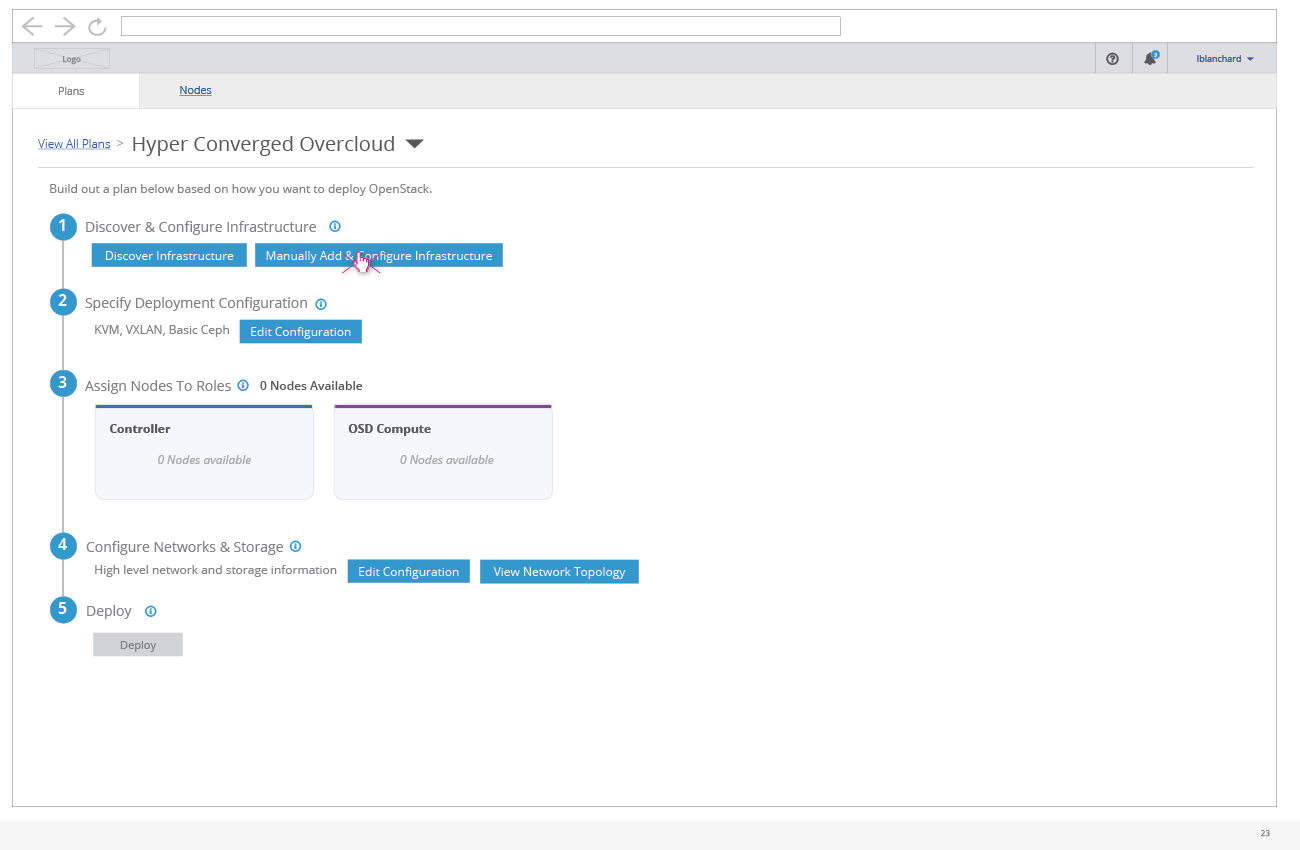
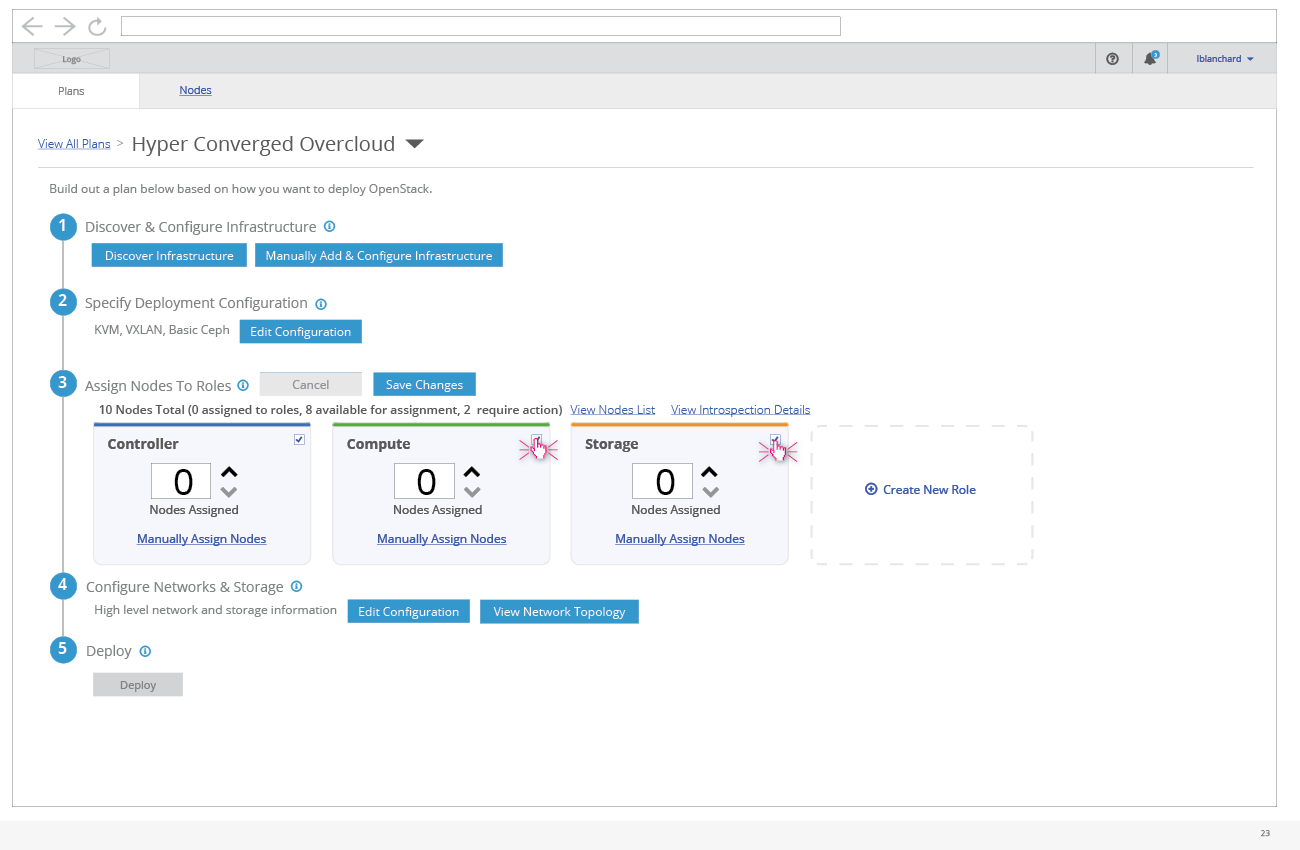
Adding updates to Roles management

diff --git a/tripleo-ui/2-preparation-before-edge-technician-deploys/README.md b/tripleo-ui/2-preparation-before-edge-technician-deploys/README.md
@@ -55,68 +55,73 @@ The preparation expert could use the UI to do all of these steps after prepping 
 ![createnewplan](img/2017-7-24-TripleO-UI_13_PrepWork17.png)
 - On creation of a Plan, the user can choose high level configuration options.  
 
-![editroles](img/2017-7-24-TripleO-UI_13_PrepWork18.png)
-- Part of the overall configuration includes role selection and creation.
-- Since this deployment will be an HCI deployment, the user is going to remove the default Compute and Storage roles and go ahead and create custom role for HCI.
+![createplan](img/2017-7-24-TripleO-UI_13_PrepWork18.png)
+- Once the user has finalized the high level plan details, they can confirm the creation of the plan.
 
-![createnewrole1](img/2017-7-24-TripleO-UI_13_PrepWork19.png)
-- Creating a new role will pull up another window that allows the user to define that role.
+![plancardsview2](img/2017-7-24-TripleO-UI_13_PrepWork19.png)
+- After creating the plan, the user will see it listed in the card view. Clicking on the card will drill into the detailed workflow of that plan.
 
-![createnewrole2](img/2017-7-24-TripleO-UI_13_PrepWork20.png)
+![registernodes](img/2017-7-24-TripleO-UI_13_PrepWork20.png)
+- As a first step to testing out this configuration, the user can begin the process of doing a test deployment by registering nodes.
+
+![registernodesmodal](img/2017-7-24-TripleO-UI_13_PrepWork21.png)
+
+![manageroles](img/2017-7-24-TripleO-UI_13_PrepWork22.png)
+- Since this deployment will be an HCI deployment, the user is going to want to edit the roles that are used.
+
+![manageroles2](img/2017-7-24-TripleO-UI_13_PrepWork23.png)
+- At this point the user can deselect the Compute and Storage roles so that they are not used.
+
+![manageroles3](img/2017-7-24-TripleO-UI_13_PrepWork24.png)
+- Next, the user selects to crate a new role so they can specify one for OSD Compute which will be used in the HCI deployment.
+
+![createnewrole1](img/2017-7-24-TripleO-UI_13_PrepWork25.png)
 - Roles can be given a name, description, and need to be assigned to a flavor.
 - Services can be selected that will be used in this role.
 - Based on the services selected, the parameters below will be built out.
 
-![createplan](img/2017-7-24-TripleO-UI_13_PrepWork21.png)
-- Once the user has finalized the high level plan details, they can confirm the creation of the plan.
+![createnewrole2](img/2017-7-24-TripleO-UI_13_PrepWork26.png)
+- After any changes needed have been made to the Roles, the user can Save the changes.
 
-![plancardsview2](img/2017-7-24-TripleO-UI_13_PrepWork22.png)
-- After creating the plan, the user will see it listed in the card view. Clicking on the card will drill into the detailed workflow of that plan.
-
-![registernodes](img/2017-7-24-TripleO-UI_13_PrepWork23.png)
-- As a first step to testing out this configuration, the user can begin the process of doing a test deployment by registering nodes.
-
-![registernodesmodal](img/2017-7-24-TripleO-UI_13_PrepWork24.png)
-
-![assignnodestoroles](img/2017-7-24-TripleO-UI_13_PrepWork25.png)
+![assignnodestoroles](img/2017-7-24-TripleO-UI_13_PrepWork27.png)
 - At this point, the user would need to assign the registered nodes to the roles that they want them to play in the deployment.
 
-![plandetails](img/2017-7-24-TripleO-UI_13_PrepWork26.png)
-- At this point, the user could choose to edit the Network and Storage configuration for this plan.
+![plandetails](img/2017-7-24-TripleO-UI_13_PrepWork28.png)
+- If needed, the user could choose to edit the Network and Storage configuration for this plan.
 
-![editconfiguration1](img/2017-7-24-TripleO-UI_13_PrepWork27.png)
+![editconfiguration1](img/2017-7-24-TripleO-UI_13_PrepWork29.png)
 - The first step of this wizard would be the overall network configuration.
 
-![editconfiguration2](img/2017-7-24-TripleO-UI_13_PrepWork28.png)
+![editconfiguration2](img/2017-7-24-TripleO-UI_13_PrepWork30.png)
 - The second step includes assigning roles to subnets.
 
-![editconfiguration3](img/2017-7-24-TripleO-UI_13_PrepWork29.png)
+![editconfiguration3](img/2017-7-24-TripleO-UI_13_PrepWork31.png)
 - The third network configuration step covers any changes that the user might want to make to the subnet configuration.
 
-![editconfiguration3](img/2017-7-24-TripleO-UI_13_PrepWork30.png)
+![editconfiguration3](img/2017-7-24-TripleO-UI_13_PrepWork32.png)
 - Storage configuration changes can be made here and the user can save all of the configuration changes that have been made.
 
-![validationsrunning](img/2017-7-24-TripleO-UI_13_PrepWork31.png)
+![validationsrunning](img/2017-7-24-TripleO-UI_13_PrepWork33.png)
 - Validations may kick off after certain changes are made to the deployment configuration.
 
-![validations1](img/2017-7-24-TripleO-UI_13_PrepWork32.png)
+![validations1](img/2017-7-24-TripleO-UI_13_PrepWork34.png)
 - The user can click to view the entire list of validations.
 
-![validations2](img/2017-7-24-TripleO-UI_13_PrepWork33.png)
+![validations2](img/2017-7-24-TripleO-UI_13_PrepWork35.png)
 - For each validation, the high level status is listed along with a way for the user to drill into the details of the validation.
 
-![validationdetails](img/2017-7-24-TripleO-UI_13_PrepWork34.png)
+![validationdetails](img/2017-7-24-TripleO-UI_13_PrepWork36.png)
 - The validation details will give the user a better idea as to what has happened if a validation failed.
 
-![deploy](img/2017-7-24-TripleO-UI_13_PrepWork35.png)
+![deploy](img/2017-7-24-TripleO-UI_13_PrepWork37.png)
 - Now the deployment is ready to kickoff.
 
-![deployconfirmation](img/2017-7-24-TripleO-UI_13_PrepWork36.png)
+![deployconfirmation](img/2017-7-24-TripleO-UI_13_PrepWork38.png)
 - The user will get a confirmation modal before deployment officially starts.
 
-![successfuldeploy](img/2017-7-24-TripleO-UI_13_PrepWork37.png)
+![successfuldeploy](img/2017-7-24-TripleO-UI_13_PrepWork39.png)
 - After a successful deployment, the user will have access to the overcloud.
 
-![exportplan](img/2017-7-24-TripleO-UI_13_PrepWork38.png)
+![exportplan](img/2017-7-24-TripleO-UI_13_PrepWork40.png)
 - At any point, the user can export a deployment plan.
 - This will support the use cases where one deployment plan might want to be used for multiple sites. The Edge Technician can simply import the deployment plan and then use it to deploy the overcloud at their site.
